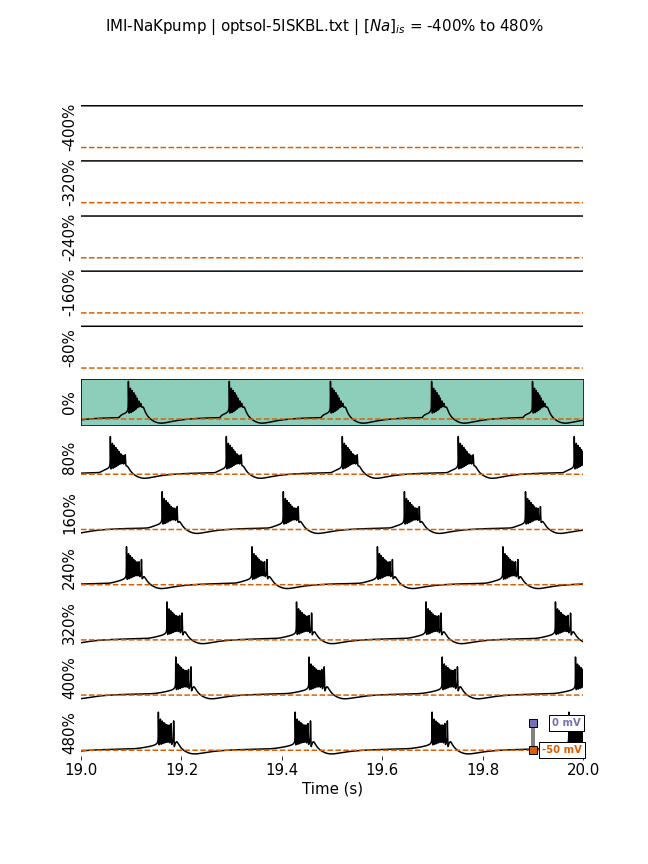
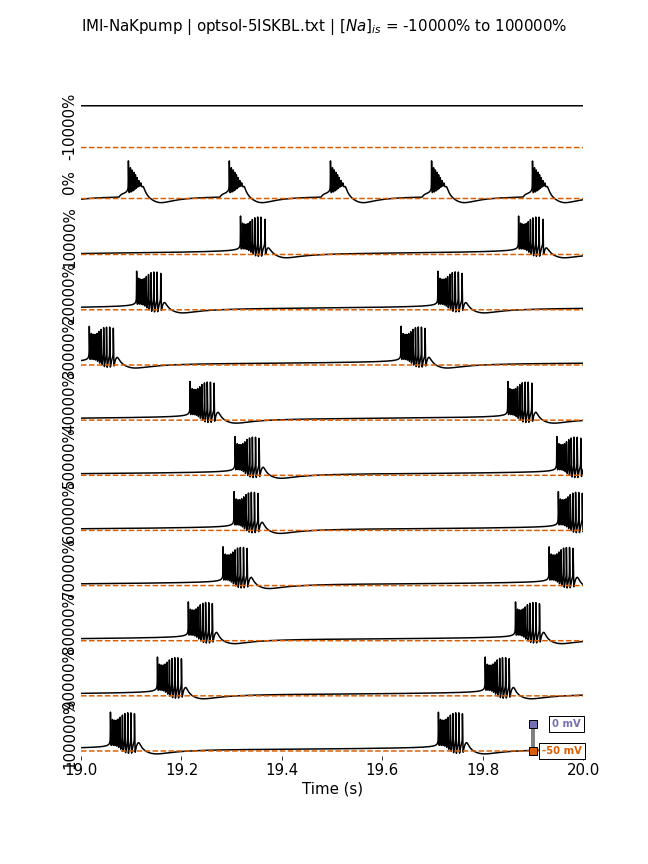
Finish the project

Changed region(s): [[0.0926, 0.0938, 0.9259, 0.9062], [0.1235, 0.0, 0.6173, 0.0625], [0.6481, 0.0, 0.8642, 0.0625]]

diff --git a/plotpumps.py b/plotpumps.py
@@ -114,13 +114,15 @@ p = originalp.copy()
 np.savetxt(pfname, p)
 
 #%%
-# Plot Na_is varied from -400% to 480% of control
+# Plot Na_is varied from ???% to ???% of control
 fig, axs = plt.subplots(12, sharex=True, figsize=(9,12))
 for i in range(12):
 	# Vary Na_is by specified factor
 	p = originalp.copy()
-	factor = round((i - 5) * 0.8, 1)
+	factor = round((i - 1) * 1, 2)
 	percentage = int(factor * 100)
+	if i == 0: firstper = percentage
+	if i == 11: lastper = percentage
 	p[41] = p[41] * factor
 	print(f'{p[41] = }')
 
@@ -138,7 +140,7 @@ for i in range(12):
 	axs[i].plot(time[time>19], sol[:,0][time>19], color='black')
 	axs[i].plot(time[time>19], -50*np.ones(len(sol))[time>19], color='#d95f02', ls='dashed')
 	axs[i].tick_params(left=False, bottom=False, labelleft=False, labelbottom=False)
-	if i != 5:
+	if percentage != 100:
 		axs[i].set_frame_on(False)
 	else:
 		axs[i].set_facecolor('#1b9e7780')
@@ -162,7 +164,7 @@ for i in range(12):
 	axs[i].set_ylabel(f'{percentage}%', fontsize=15, color='black')
 	axs[i].set_xlim(19,20)
 
-fig.suptitle(f'IMI-NaKpump | {pfname} | $[Na]_{{is}}$ = -400% to 480%', fontsize=15)
+fig.suptitle(f'IMI-NaKpump | {pfname} | $[Na]_{{is}}$ = {firstper}% to {lastper}%', fontsize=15)
 fig.savefig('varied-Na_is-'+hashname+'.png')
 
 # Restore control parameter set
@@ -170,7 +172,65 @@ p = originalp.copy()
 np.savetxt(pfname, p)
 
 #%%
-# Plot Na_ih varied from 6504% to 7516% of control
+# Plot Na_ih varied from ???% to ???% of control
+fig, axs = plt.subplots(12, sharex=True, figsize=(9,12))
+for i in range(12):
+	# Vary Na_ih by specified factor
+	p = originalp.copy()
+	factor = round((i - 5) * 100 + 1, 2)
+	percentage = int(factor * 100)
+	if i == 0: firstper = percentage
+	if i == 11: lastper = percentage
+	p[42] = p[42] * factor
+	print(f'{p[42] = }')
+
+	# Run the model
+	if pathlib.Path(f'cache/{hashname}.Na_ih.{factor}.sol.txt').exists():
+		sol = np.genfromtxt(f'cache/{hashname}.Na_ih.{factor}.sol.txt')
+	else:
+		np.savetxt(pfname, p)
+		subprocess.run(command, shell=True)
+		shutil.copy('sol.txt', f'cache/{hashname}.Na_ih.{factor}.sol.txt')
+		sol = np.genfromtxt(f'cache/{hashname}.Na_ih.{factor}.sol.txt')
+	time = np.linspace(0,20,len(sol))
+
+	# Plot the varied parameter set
+	axs[i].plot(time[time>19], sol[:,0][time>19], color='black')
+	axs[i].plot(time[time>19], -50*np.ones(len(sol))[time>19], color='#d95f02', ls='dashed')
+	axs[i].tick_params(left=False, bottom=False, labelleft=False, labelbottom=False)
+	if percentage != 100:
+		axs[i].set_frame_on(False)
+	else:
+		axs[i].set_facecolor('#1b9e7780')
+	
+	if i == 11:
+		axs[i].vlines(19.9, -50, 0, color='#808080', lw=4, zorder=10)
+		axs[i].plot(19.9, -50, 's', color='#d95f02', markeredgecolor='black', markersize=8,
+					zorder=11)
+		axs[i].plot(19.9, 0, 's', color='#7570b3', markeredgecolor='black', markersize=8,
+					zorder=11)
+		bboxprops = dict(boxstyle='square', facecolor='white', edgecolor='black')
+		axs[i].annotate('-50 mV', xy=(19.9, -50), xytext=(9, 0), color='#d95f02',
+						textcoords='offset points', horizontalalignment='left', weight='bold',
+						verticalalignment='center', annotation_clip=False, bbox=bboxprops)
+		axs[i].annotate('0 mV', xy=(19.9, 0), xytext=(19.5, 0), color='#7570b3',
+						textcoords='offset points', horizontalalignment='left', weight='bold',
+						verticalalignment='center', annotation_clip=False, bbox=bboxprops)
+		axs[i].tick_params(bottom=True, labelbottom=True, labelsize=15)
+		axs[i].set_xlabel('Time (s)', fontsize=15)
+
+	axs[i].set_ylabel(f'{percentage}%', fontsize=15, color='black')
+	axs[i].set_xlim(19,20)
+
+fig.suptitle(f'IMI-NaKpump | {pfname} | $[Na]_{{ih}}$ = {firstper}% to {lastper}%', fontsize=15)
+fig.savefig('varied-Na_ih-'+hashname+'.png')
+
+# Restore control parameter set
+p = originalp.copy()
+np.savetxt(pfname, p)
+
+#%%
+# Plot Na_ih varied from ???% to ???% of control, overlay with I and [Na]
 fig, axs = plt.subplots(12, sharex=True, sharey=True, figsize=(9,12))
 axsNa = [a.twinx() for a in axs]
 axsI = [a.twinx() for a in axs]
